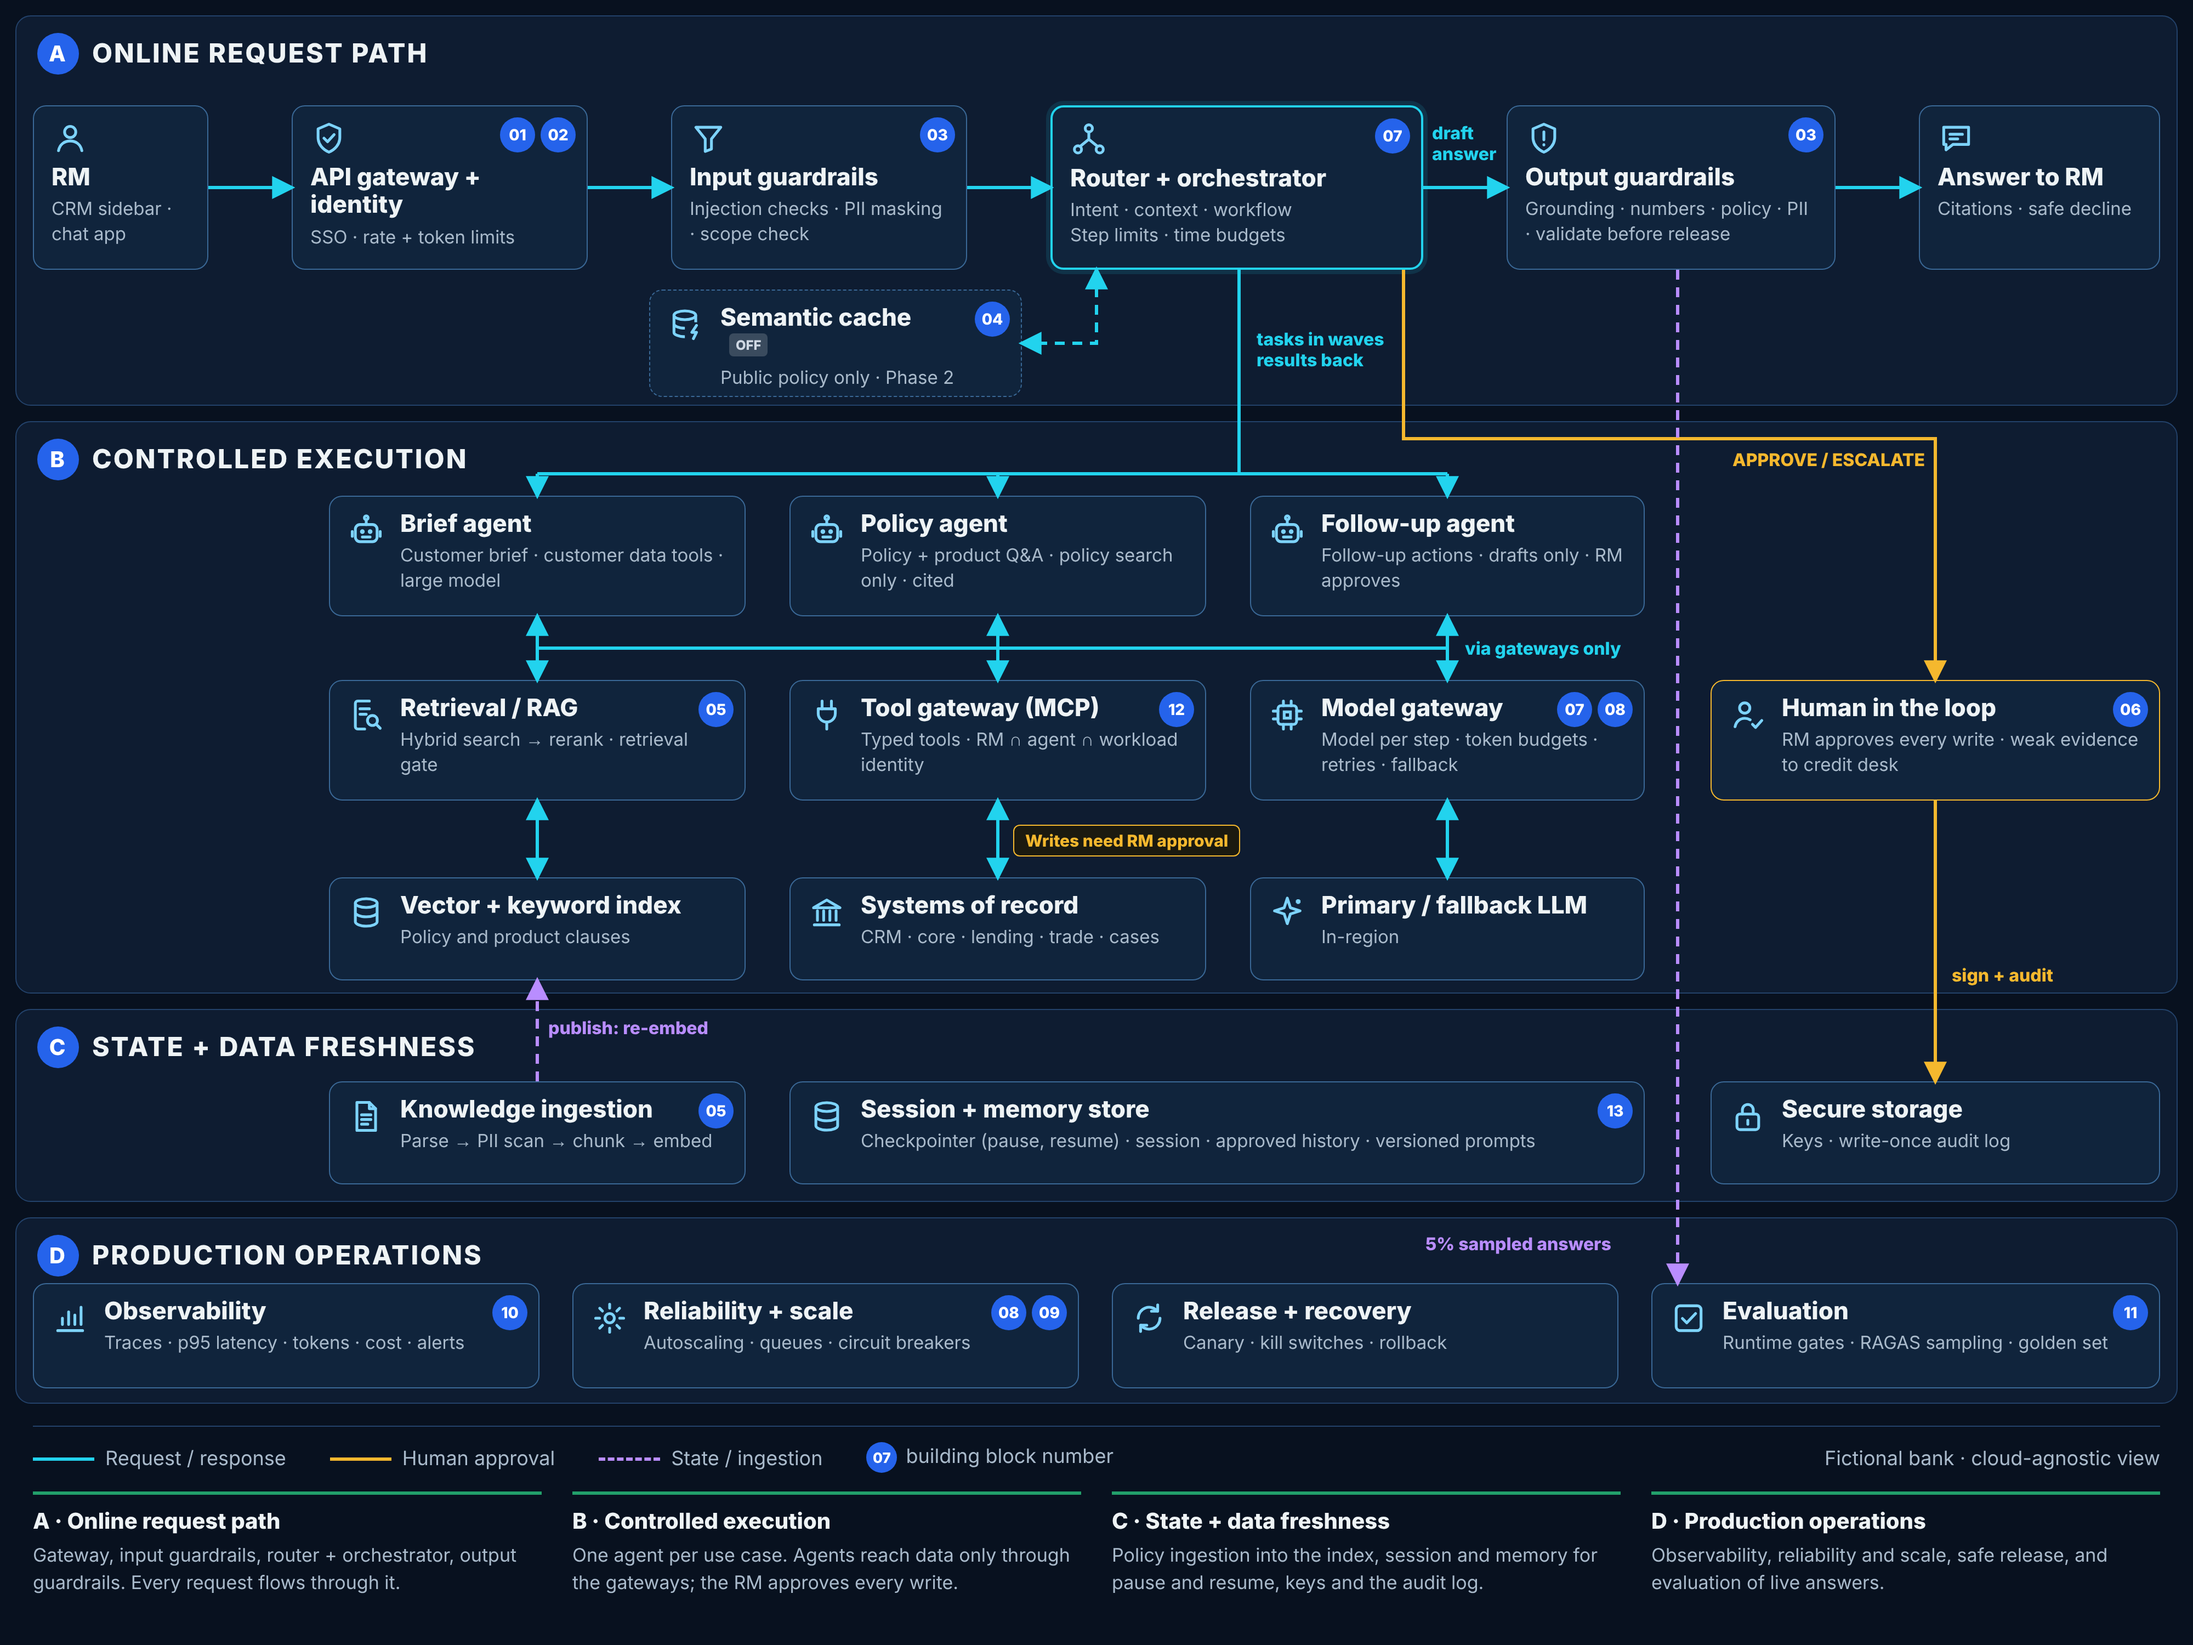
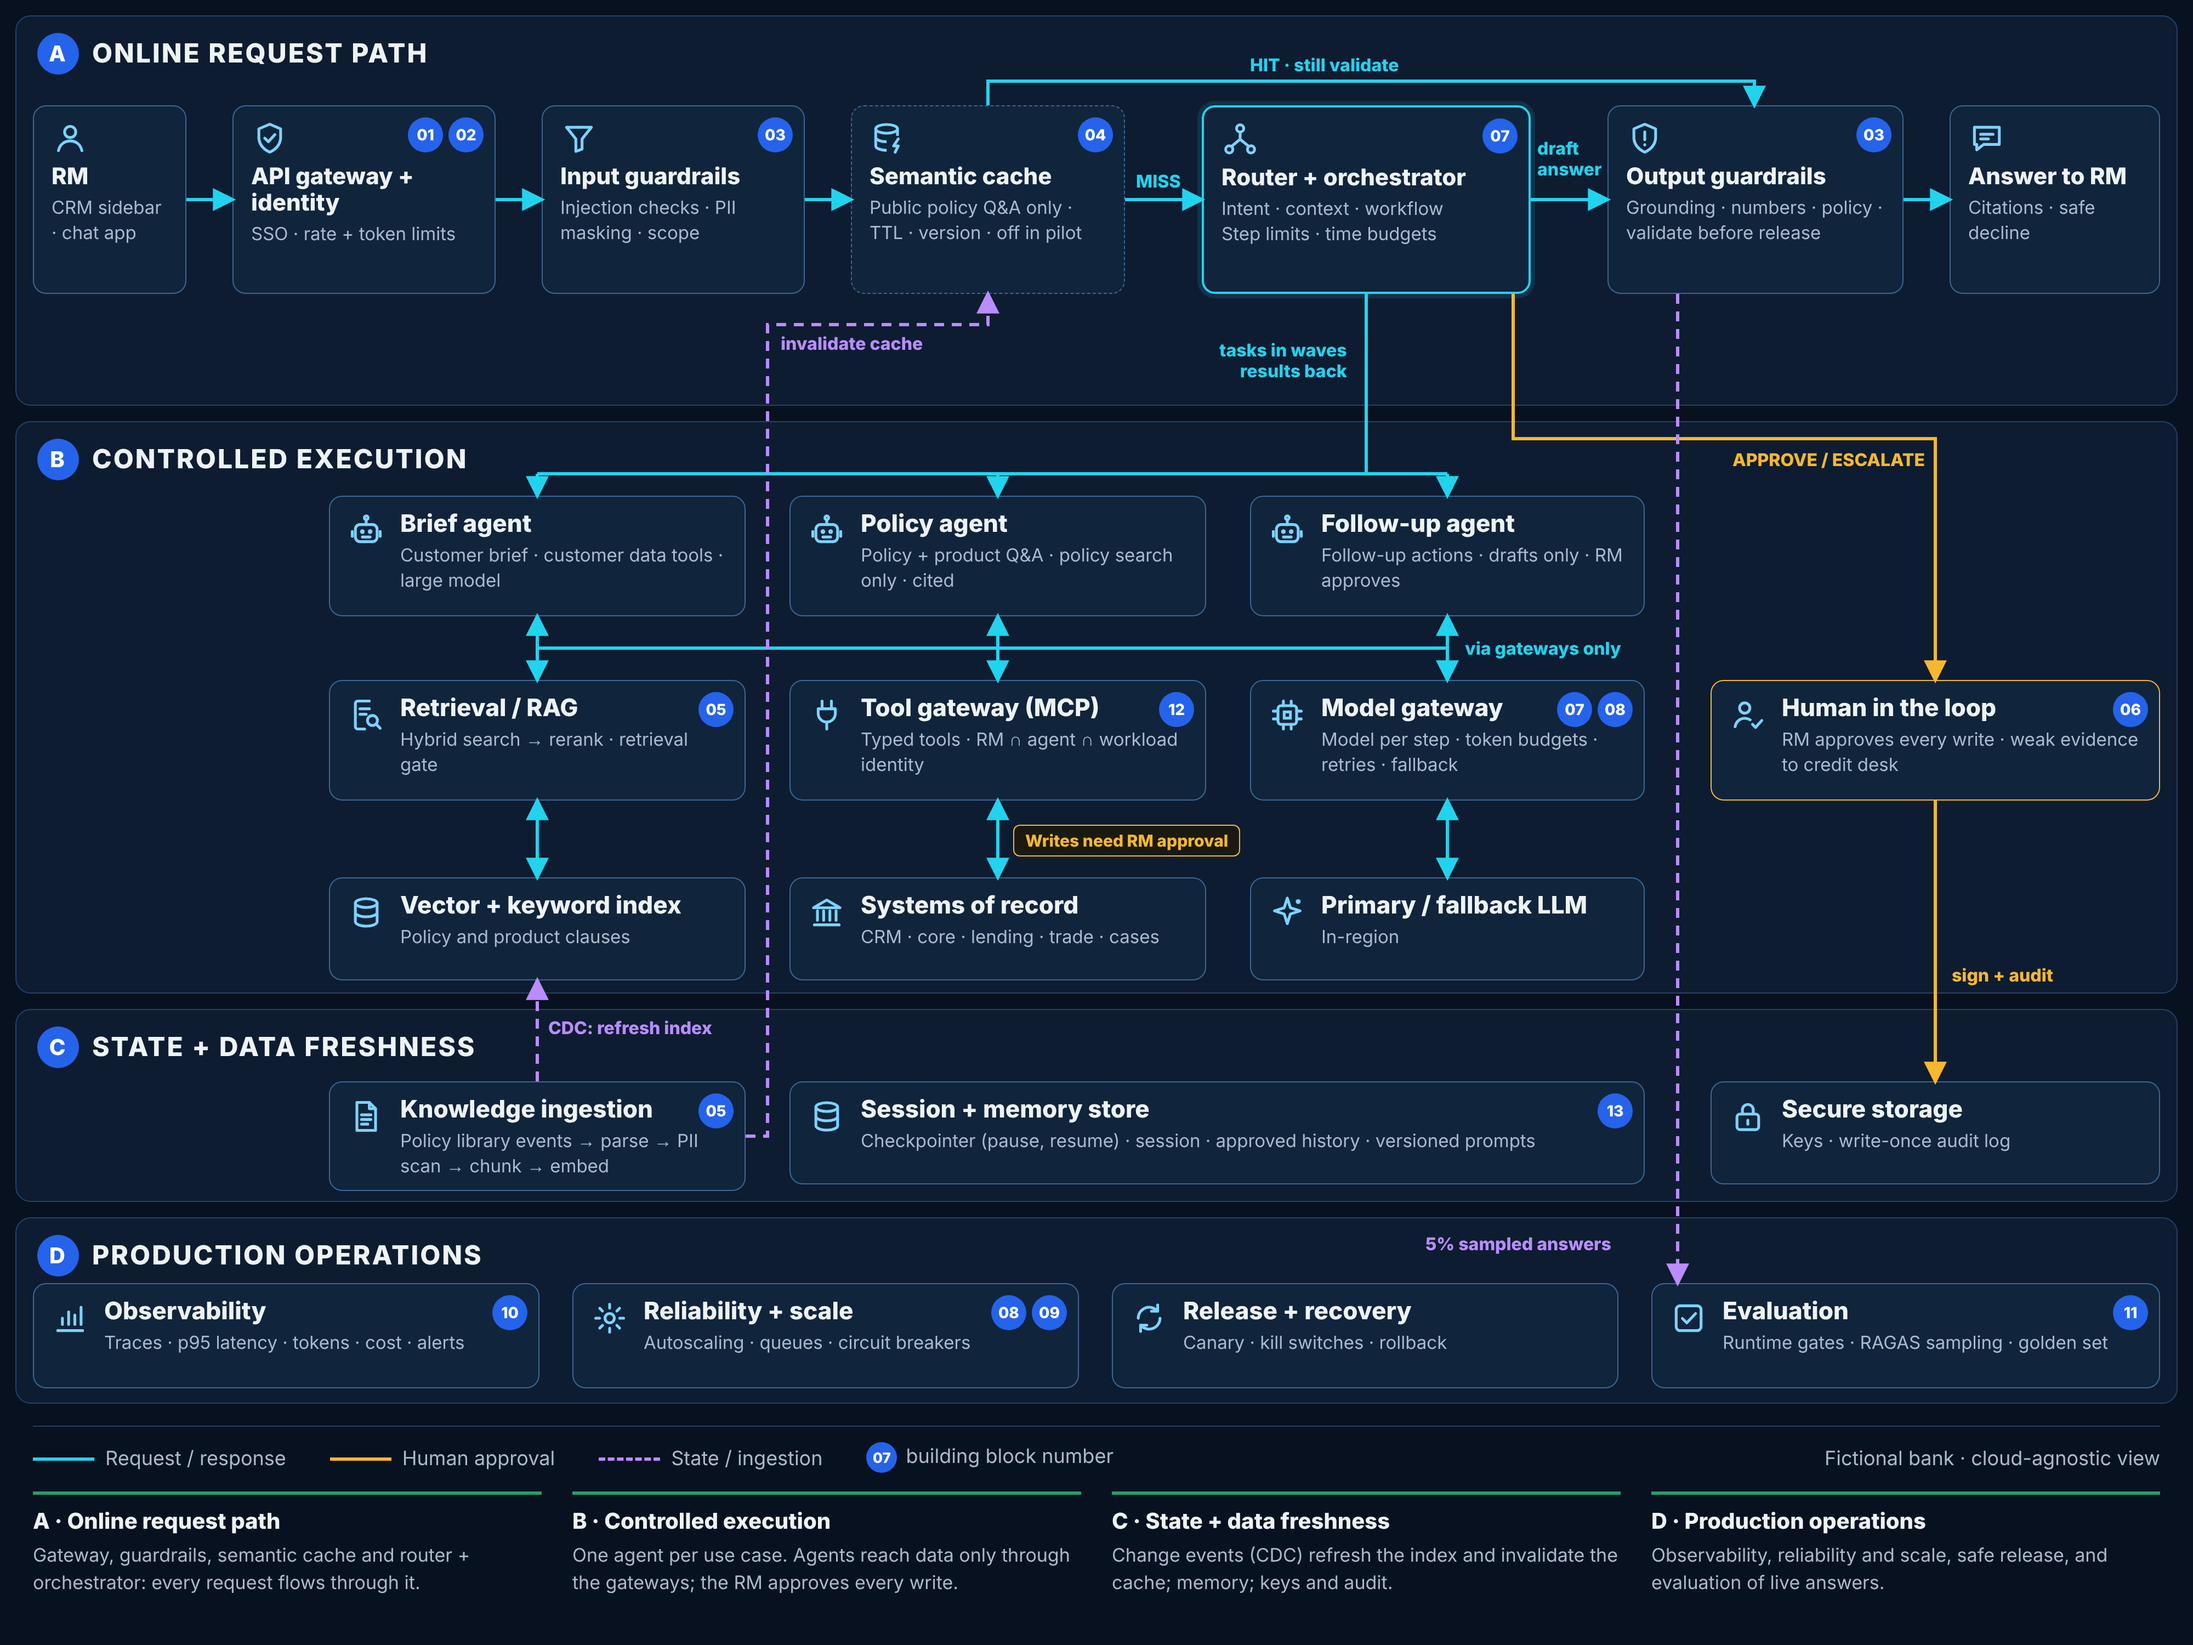
Simple HLD: semantic cache on the main path (MISS to router, HIT still validated) and CDC events that refresh the index and invalidate the cache
Claude-Session: https://claude.ai/code/session_017mnFTtgPUTPw2EMPKevzKD

diff --git a/docs/architecture/diagrams/simple-hld/simple-hld.html b/docs/architecture/diagrams/simple-hld/simple-hld.html
@@ -16,7 +16,8 @@ body { background:var(--bg); font-family:Inter, Arial, sans-serif; color:var(--i
 .b.col svg.ic { display:block; margin-bottom:6px; }
 .b.row svg.ic { margin-top:2px; }
 .b .t { font:700 22px/1.15 Inter; margin-bottom:5px; }
-.b.hb .t { padding-right:44px; } .b.hb2 .t { padding-right:80px; }
+.b.row.hb .t { padding-right:44px; } .b.row.hb2 .t { padding-right:80px; }
+.b.col .t { font-size:21px; }
 .b .d { font:400 16.5px/1.4 Inter; color:var(--muted); }
 .b .bd { position:absolute; right:10px; top:10px; display:flex; gap:5px; }
 .b .bd span { width:32px; height:32px; border-radius:50%; background:var(--badge); color:#fff; font:800 14px/32px Inter; text-align:center; }
@@ -70,34 +71,37 @@ svg.wires { position:absolute; left:0; top:0; pointer-events:none; }
 <div class="lane" style="top:1110px;height:170px"></div><div class="lh" style="left:34px;top:1126px"><span>D</span>PRODUCTION OPERATIONS</div>
 <div id="boxes"></div>
 
-<div class="lbl c" style="left:1306px;top:112px">draft<br>answer</div>
-<div class="lbl c" style="left:1146px;top:300px">tasks in waves<br>results back</div>
+<div class="lbl c" style="left:1402px;top:126px">draft<br>answer</div>
+<div class="lbl c" style="left:1036px;top:156px">MISS</div>
+<div class="lbl c" style="left:1140px;top:50px">HIT · still validate</div>
+<div class="lbl v" style="left:712px;top:304px">invalidate cache</div>
+<div class="lbl c" style="left:1112px;top:310px;text-align:right">tasks in waves<br>results back</div>
 <div class="lbl c" style="left:1336px;top:582px">via gateways only</div>
 <div class="lbl a" style="left:1580px;top:410px">APPROVE / ESCALATE</div>
 <div class="lbl a" style="left:1780px;top:880px">sign + audit</div>
-<div class="lbl v" style="left:500px;top:928px">publish: re-embed</div>
+<div class="lbl v" style="left:500px;top:928px">CDC: refresh index</div>
 <div class="lbl v" style="left:1300px;top:1125px">5% sampled answers</div>
 <div class="pill" style="left:924px;top:752px">Writes need RM approval</div>
 <svg class="wires" width="2000" height="1500" viewBox="0 0 2000 1500" id="w"></svg>
 
 <div class="legend"><span><i style="border-color:var(--cyan)"></i>Request / response</span><span><i style="border-color:var(--amber)"></i>Human approval</span><span><i style="border-color:var(--violet);border-top-style:dashed"></i>State / ingestion</span><span><b class="n">07</b>building block number</span><span style="margin-left:auto">Fictional bank · cloud-agnostic view</span></div>
 <div class="caps">
-<div><b>A · Online request path</b>Gateway, input guardrails, router + orchestrator, output guardrails. Every request flows through it.</div>
+<div><b>A · Online request path</b>Gateway, guardrails, semantic cache and router + orchestrator: every request flows through it.</div>
 <div><b>B · Controlled execution</b>One agent per use case. Agents reach data only through the gateways; the RM approves every write.</div>
-<div><b>C · State + data freshness</b>Policy ingestion into the index, session and memory for pause and resume, keys and the audit log.</div>
+<div><b>C · State + data freshness</b>Change events (CDC) refresh the index and invalidate the cache; memory; keys and audit.</div>
 <div><b>D · Production operations</b>Observability, reliability and scale, safe release, and evaluation of live answers.</div>
 </div>
 </div>
 <script>
 // [x, y, w, h, layout, icon, badges, title, detail, extra class]
 const BOX = [
- [30,96,160,150,'col','user',[],'RM','CRM sidebar · chat app'],
- [266,96,270,150,'col','shield',['01','02'],'API gateway + identity','SSO · rate + token limits'],
- [612,96,270,150,'col','filter',['03'],'Input guardrails','Injection checks · PII masking · scope check'],
- [958,96,340,150,'col','router',['07'],'Router + orchestrator','Intent · context · workflow<br>Step limits · time budgets','key'],
- [1374,96,300,150,'col','guard',['03'],'Output guardrails','Grounding · numbers · policy · PII · validate before release'],
- [1750,96,220,150,'col','chat',[],'Answer to RM','Citations · safe decline'],
- [592,264,340,98,'row','cache',['04'],'Semantic cache <span class="off">OFF</span>','Public policy only · Phase 2','off'],
+ [30,96,140,172,'col','user',[],'RM','CRM sidebar · chat app'],
+ [212,96,240,172,'col','shield',['01','02'],'API gateway + identity','SSO · rate + token limits'],
+ [494,96,240,172,'col','filter',['03'],'Input guardrails','Injection checks · PII masking · scope'],
+ [776,96,250,172,'col','cache',['04'],'Semantic cache','Public policy Q&amp;A only · TTL · version · off in pilot','off'],
+ [1096,96,300,172,'col','router',['07'],'Router + orchestrator','Intent · context · workflow<br>Step limits · time budgets','key'],
+ [1466,96,270,172,'col','guard',['03'],'Output guardrails','Grounding · numbers · policy · validate before release'],
+ [1778,96,192,172,'col','chat',[],'Answer to RM','Citations · safe decline'],
  [300,452,380,110,'row','agent',[],'Brief agent','Customer brief · customer data tools · large model'],
  [720,452,380,110,'row','agent',[],'Policy agent','Policy + product Q&amp;A · policy search only · cited'],
  [1140,452,360,110,'row','agent',[],'Follow-up agent','Follow-up actions · drafts only · RM approves'],
@@ -108,7 +112,7 @@ const BOX = [
  [300,800,380,94,'row','db',[],'Vector + keyword index','Policy and product clauses'],
  [720,800,380,94,'row','bank',[],'Systems of record','CRM · core · lending · trade · cases'],
  [1140,800,360,94,'row','spark',[],'Primary / fallback LLM','In-region'],
- [300,986,380,94,'row','doc',['05'],'Knowledge ingestion','Parse → PII scan → chunk → embed'],
+ [300,986,380,100,'row','doc',['05'],'Knowledge ingestion','Policy library events → parse → PII scan → chunk → embed'],
  [720,986,780,94,'row','db',['13'],'Session + memory store','Checkpointer (pause, resume) · session · approved history · versioned prompts'],
  [1560,986,410,94,'row','lock',[],'Secure storage','Keys · write-once audit log'],
  [30,1170,462,96,'row','chart',['10'],'Observability','Traces · p95 latency · tokens · cost · alerts'],
@@ -121,18 +125,19 @@ document.getElementById('boxes').innerHTML = BOX.map(([x,y,w,h,l,ic,bd,t,d,cls])
   `<svg class="ic"><use href="#i-${ic}"/></svg>` + (bd.length ? `<div class="bd">${bd.map(n=>`<span>${n}</span>`).join('')}</div>` : '') +
   `<div><div class="t">${t}</div><div class="d">${d}</div></div></div>`).join('');
 const W = [
- [[[190,171],[266,171]],'c'], [[[536,171],[612,171]],'c'], [[[882,171],[958,171]],'c'],
- [[[1298,171],[1374,171]],'c'], [[[1674,171],[1750,171]],'c'],
- [[[1000,246],[1000,313],[932,313]],'c',1,1],
- [[[1130,246],[1130,432]],'c',0,-1], [[[490,432],[1320,432]],'c',0,-1],
+ [[[170,182],[212,182]],'c'], [[[452,182],[494,182]],'c'], [[[734,182],[776,182]],'c'], [[[1026,182],[1096,182]],'c'],
+ [[[1396,182],[1466,182]],'c'], [[[1736,182],[1778,182]],'c'],
+ [[[901,96],[901,74],[1600,74],[1600,96]],'c'],
+ [[[1246,268],[1246,432]],'c',0,-1], [[[490,432],[1320,432]],'c',0,-1],
  [[[490,432],[490,452]],'c'], [[[910,432],[910,452]],'c'], [[[1320,432],[1320,452]],'c'],
  [[[490,591],[1320,591]],'c',0,-1],
  [[[490,562],[490,620]],'c',0,1], [[[910,562],[910,620]],'c',0,1], [[[1320,562],[1320,620]],'c',0,1],
  [[[490,730],[490,800]],'c',0,1], [[[910,730],[910,800]],'c',0,1], [[[1320,730],[1320,800]],'c',0,1],
- [[[1280,246],[1280,400],[1765,400],[1765,620]],'a'],
+ [[[1380,268],[1380,400],[1765,400],[1765,620]],'a'],
  [[[1765,730],[1765,986]],'a'],
  [[[490,986],[490,894]],'v',1],
- [[[1530,246],[1530,1170]],'v',1],
+ [[[680,1036],[700,1036],[700,296],[901,296],[901,268]],'v',1],
+ [[[1530,268],[1530,1170]],'v',1],
 ];
 const col = {c:'#22D3EE', a:'#F5B82E', v:'#B98DFF'};
 let s = '<defs>' + Object.entries(col).map(([k,v]) => `<marker id="m${k}" viewBox="0 0 10 10" refX="8.5" refY="5" markerWidth="7" markerHeight="7" orient="auto-start-reverse"><path d="M0,0L10,5L0,10z" fill="${v}"/></marker>`).join('') + '</defs>';
